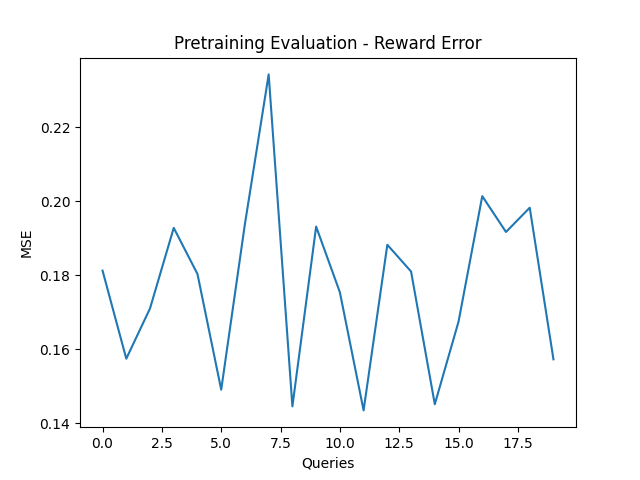
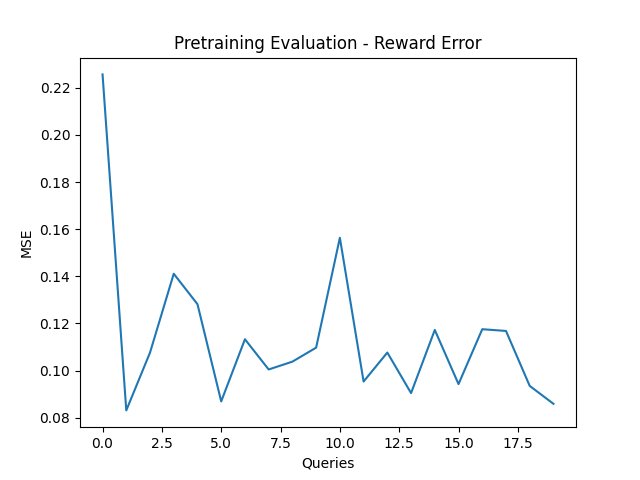
more experiments

diff --git a/learner.py b/learner.py
@@ -43,6 +43,8 @@ class Learner:
             print("######### PRE TRAINING #########")
             
         losses = []
+        # set model to train mode
+        self.encoder.train()
 
         for i in range(self.args.pretrain_iters):
             if self.args.one_reward:
@@ -52,16 +54,15 @@ class Learner:
             else:
                 true_humans, query_seqs, answer_seqs = self.dataset.get_batch_seq(batchsize=self.args.batchsize, seqlength=self.args.sequence_length)
 
-            # get latents from queries and answers
+            # initialize hidden and loss variables
             hidden = self.encoder.init_hidden(batchsize=self.args.batchsize)
+            loss = 0
 
             # manually handle hidden inputs for gru for sequence
             for t in range(self.args.sequence_length):
-                self.optimizer.zero_grad()
                 queries, answers = query_seqs[t, :, :].unsqueeze(0), answer_seqs[t, :, :].unsqueeze(0)
 
                 beliefs, hidden = self.encoder(queries, answers, hidden)
-                hidden = hidden.detach()
 
                 # compute predicted response at timestep for each sequence
                 inputs = response_dist(self.args, queries, beliefs)
@@ -70,11 +71,13 @@ class Learner:
                 inputs = inputs.view(-1, self.args.query_size)
                 targets = answer_seqs[t, :].view(-1)
 
-                loss = self.loss(inputs, targets)
-                loss.backward()     
-                losses.append(loss.item())           
-
-                self.optimizer.step()       
+                loss += self.loss(inputs, targets)
+            
+            self.optimizer.zero_grad()
+            loss /= self.args.sequence_length
+            loss.backward()     
+            losses.append(loss.item())           
+            self.optimizer.step()    
 
             if self.args.verbose and (i+1) % 100 == 0:
                 print("Iteration %2d: Loss = %.3f" % (i + 1, loss))
@@ -97,6 +100,9 @@ class Learner:
         alignments = []
         
         with torch.no_grad():
+            # set model to eval mode
+            self.encoder.eval()
+
             # when we're not doing a singular batch experiment, we select a different test batch
             if self.args.one_reward:
                 true_humans, query_seqs, answer_seqs = self.global_data
@@ -109,7 +115,6 @@ class Learner:
                 queries, answers = query_seqs[t, :, :].unsqueeze(0), answer_seqs[t, :, :].unsqueeze(0)
 
                 beliefs, hidden = self.encoder(queries, answers, hidden)
-                hidden = hidden.detach()
 
                 # compute predicted response at timestep for each sequence
                 inputs = response_dist(self.args, queries, beliefs)
@@ -166,6 +171,8 @@ class Learner:
             print("########### TRAINING ###########")
 
         losses = []
+        # set model to train mode
+        self.encoder.train()
 
         for n in range(self.args.num_iters):
             # get batch of starting queries for iteration
@@ -180,7 +187,6 @@ class Learner:
             for _ in range(self.args.encoder_spi):
                 
                 # initialize hidden and loss variables
-                self.optimizer.zero_grad()
                 hidden = self.encoder.init_hidden(batchsize=self.args.batchsize)
                 loss = 0
 
@@ -192,7 +198,6 @@ class Learner:
 
                     # get beliefs from queries and answers
                     beliefs, hidden = self.encoder(curr_queries, curr_answers, hidden)
-                    hidden = hidden.detach()
 
                     # compute predicted response at timestep for each query
                     inputs = response_dist(self.args, curr_queries, beliefs)
@@ -201,21 +206,24 @@ class Learner:
                     inputs = inputs.view(-1, self.args.query_size)
                     targets = curr_answers.view(-1)
 
-                    # compute loss and back propagate
-                    loss = self.loss(inputs, targets)
-                    loss.backward()     
-                    losses.append(loss.item())    
-                    self.optimizer.step()   
+                    # compute loss and add to overall loss for sequence
+                    loss += self.loss(inputs, targets)
 
-                    # # get next queries
-                    # curr_queries = self.policy.run_policy(curr_queries, beliefs)
-                    # # get next answers (in the case of an actual human, would be replaced with labeling step)
-                    # answer_dist = response_dist(self.args, curr_queries, true_humans)
-                    # curr_answers = sample_dist(self.args, answer_dist)
+                    # get next queries
+                    curr_queries = self.policy.run_policy(curr_queries, beliefs)
+                    # get next answers (in the case of an actual human, would be replaced with labeling step)
+                    answer_dist = response_dist(self.args, curr_queries, true_humans)
+                    curr_answers = sample_dist(self.args, answer_dist)
 
-                    # # reshape to have sequence dim of 1
-                    # curr_queries = curr_queries.unsqueeze(0)
-                    # curr_answers = curr_answers.unsqueeze(0)             
+                    # reshape to have sequence dim of 1
+                    curr_queries = curr_queries.unsqueeze(0)
+                    curr_answers = curr_answers.unsqueeze(0)    
+
+                self.optimizer.zero_grad()
+                loss /= self.args.sequence_length
+                loss.backward()       
+                self.optimizer.step()   
+                losses.append(loss.item())    
 
             if self.args.verbose and (n+1) % 100 == 0:
                 print("Iteration %2d: Loss = %.3f" % (n+1, losses[-1]))
@@ -241,6 +249,9 @@ class Learner:
         alignments = []
         
         with torch.no_grad():
+            # set model to eval mode
+            self.encoder.eval()
+
             # when we're not doing a singular batch experiment, we select a different test batch
             # same reward used for testing and training
             if self.args.one_reward:
@@ -256,11 +267,10 @@ class Learner:
             curr_queries = queries.unsqueeze(0)
             curr_answers = answers.unsqueeze(0)
 
-            for _ in range(self.args.sequence_length):
+            for t in range(self.args.sequence_length):
 
                 # get beliefs from queries and answers
                 beliefs, hidden = self.encoder(curr_queries, curr_answers, hidden)
-                hidden = hidden.detach()
 
                 # compute predicted response at timestep for each query
                 inputs = response_dist(self.args, curr_queries, beliefs)
@@ -278,16 +288,16 @@ class Learner:
                 mses.append(mse)
                 alignments.append(align)
 
-                # # get next queries
-                # curr_queries = self.policy.run_policy(curr_queries, beliefs)
-                # # get next answers (in the case of an actual human, would be replaced with labeling step)
-                # answer_dist = response_dist(self.args, curr_queries, true_humans)
-                # curr_answers = sample_dist(self.args, answer_dist)
+                # get next queries
+                curr_queries = self.policy.run_policy(curr_queries, beliefs)
+                # get next answers (in the case of an actual human, would be replaced with labeling step)
+                answer_dist = response_dist(self.args, curr_queries, true_humans)
+                curr_answers = sample_dist(self.args, answer_dist)
 
-                # # reshape to have sequence dim of 1
-                # curr_queries = curr_queries.unsqueeze(0)
-                # curr_answers = curr_answers.unsqueeze(0)   
-
+                # reshape to have sequence dim of 1
+                curr_queries = curr_queries.unsqueeze(0)
+                curr_answers = curr_answers.unsqueeze(0)
+                 
                 if self.args.verbose:
                     print("Query %2d: Loss = %.3f, MSE = %.3f, Alignment = %.3f" % (t, loss, mse, align))
 

diff --git a/models/encoder.py b/models/encoder.py
@@ -16,12 +16,10 @@ class Encoder(nn.Module):
         self.hidden_dim = args.gru_hidden_size
 
         self.fc_input_query = nn.Linear(args.query_size * args.num_features, args.fc_dim)
-        self.fc_input_answer = nn.Linear(1, args.fc_dim)
-
-        self.fc_input = nn.Linear(2 * args.fc_dim, 4 * args.fc_dim)
+        self.fc_input = nn.Linear(args.fc_dim + 1, 2 * args.fc_dim)
 
         # RNN functionality
-        self.gru = nn.GRU(input_size=4 * args.fc_dim,
+        self.gru = nn.GRU(input_size=2 * args.fc_dim,
                           hidden_size=self.hidden_dim,
                           num_layers=args.gru_hidden_layers)
 
@@ -38,10 +36,14 @@ class Encoder(nn.Module):
 
     def reparameterize(self, mu, logvar):
         if self.args.sample_belief:
-            std = torch.exp(0.5*logvar).repeat(self.args.m, 1, 1)
+            # put batch dimension first
+            mu = mu.transpose(0, 1)
+            logvar = logvar.transpose(0, 1)
+            # shape is batch, 1, num_features
+            std = torch.exp(0.5*logvar).repeat(1, self.args.m, 1)
             eps = torch.randn_like(std)
-            belief = eps.mul(std).add_(mu.repeat(self.args.m, 1, 1))
-            belief = torch.mean(belief, dim=0)
+            belief = eps.mul(std).add_(mu.repeat(1, self.args.m, 1))
+            belief = torch.mean(belief, dim=-2)
             belief = belief / torch.linalg.norm(belief, dim=-1).unsqueeze(-1)
         else:
             belief = mu / torch.linalg.norm(mu, dim=-1).unsqueeze(-1)
@@ -49,14 +51,11 @@ class Encoder(nn.Module):
 
     def forward(self, query, answer, hidden):
         input_query = self.fc_input_query(query)
-        input_query = F.relu(input_query)
-
-        input_answer = self.fc_input_answer(answer.to(torch.float32))
-        input_answer = F.relu(input_answer)
+        input_query = F.leaky_relu(input_query)
         
-        input = torch.cat((input_query, input_answer), -1)
-        output = self.fc_input(input)
-        output = F.relu(output)
+        output = torch.cat((input_query, answer), -1)
+        output = self.fc_input(output)
+        output = F.leaky_relu(output)
 
         # run through gru
         output, hidden = self.gru(output, hidden)
@@ -64,7 +63,7 @@ class Encoder(nn.Module):
         # run through fc layers
         for l in self.fc_layers:
             output = l(output)
-            output = F.relu(output)
+            output = F.leaky_relu(output)
 
         # output belief distribution and belief sample
         mu = self.fc_mu(output)

diff --git a/policies/policies.py b/policies/policies.py
@@ -1,4 +1,5 @@
 import numpy as np
+import torch
 
 class Policy:
     def __init__(self, args, dataset):
@@ -6,7 +7,7 @@ class Policy:
         self.dataset = dataset
         self.args = args
 
-    def run_policy(self, queries, beliefs):
+    def run_policy(self, queries, beliefs) -> torch.Tensor:
         pass
 
     def train_policy(self, n=1000):
@@ -17,7 +18,7 @@ class RandomPolicy(Policy):
         super().__init__(args, dataset)
         self.vis_directory = "random/"
 
-    def run_policy(self, queries, beliefs):
+    def run_policy(self, queries, beliefs) -> torch.Tensor:
         return self.dataset.get_random_queries(self.args.batchsize)
 
 class GreedyPolicy(Policy):
@@ -25,7 +26,7 @@ class GreedyPolicy(Policy):
         super().__init__(args, dataset)
         self.vis_directory = "greedy/"
 
-    def run_policy(self, queries, beliefs):
+    def run_policy(self, queries, beliefs) -> torch.Tensor:
         raise NotImplementedError
 
 class RLPolicy(Policy):
@@ -33,7 +34,7 @@ class RLPolicy(Policy):
         super().__init__(args, dataset)
         self.vis_directory = "rl/"
     
-    def run_policy(self, queries, beliefs):
+    def run_policy(self, queries, beliefs) -> torch.Tensor:
         raise NotImplementedError
 
     def train_policy(self, n=1000):

diff --git a/storage/vae_storage.py b/storage/vae_storage.py
@@ -24,6 +24,11 @@ class VAEStorage:
 
         self.queries = torch.zeros((self.buffer_size, args.query_size * args.num_features))
 
+    def normalize_dataset(self):
+        mean = torch.mean(self.queries, dim=0)
+        std = torch.std(self.queries, dim=0)
+        self.queries = (self.queries - mean)/std
+
     def get_random_true_rewards(self, batchsize=5):
         true_rewards = torch.normal(0, 1, (batchsize, self.args.num_features))
         true_rewards = true_rewards / (torch.norm(true_rewards, 1).unsqueeze(-1))

diff --git a/configs/gridworld.py b/configs/gridworld.py
@@ -20,7 +20,7 @@ def args(rest_args):
                         help='set user to be optimal based on probability distributions')
     parser.set_defaults(optimal_user=False)
 
-    parser.add_argument('--temperature', type=float, default=.0005,
+    parser.add_argument('--temperature', type=float, default=1,
                         help='Boltzmann rationality temperature')
     parser.add_argument('--m', type=float, default=100,
                         help='how many samples for sampling from the belief distribution')

diff --git a/utils/helpers.py b/utils/helpers.py
@@ -90,4 +90,5 @@ def collect_dataset(args, world):
         if args.verbose and (i+1) % 200 == 0:
             print("Collected %2d queries" % (i+1))
     
+    dataset.normalize_dataset()
     return dataset

diff --git a/driver.py b/driver.py
@@ -22,6 +22,7 @@ if env == 'gridworld':
 
     # collect dataset for the experiments
     dataset = collect_dataset(args, GridWorld(args))
+
 else:
     print('Invalid Environment Option')
 
